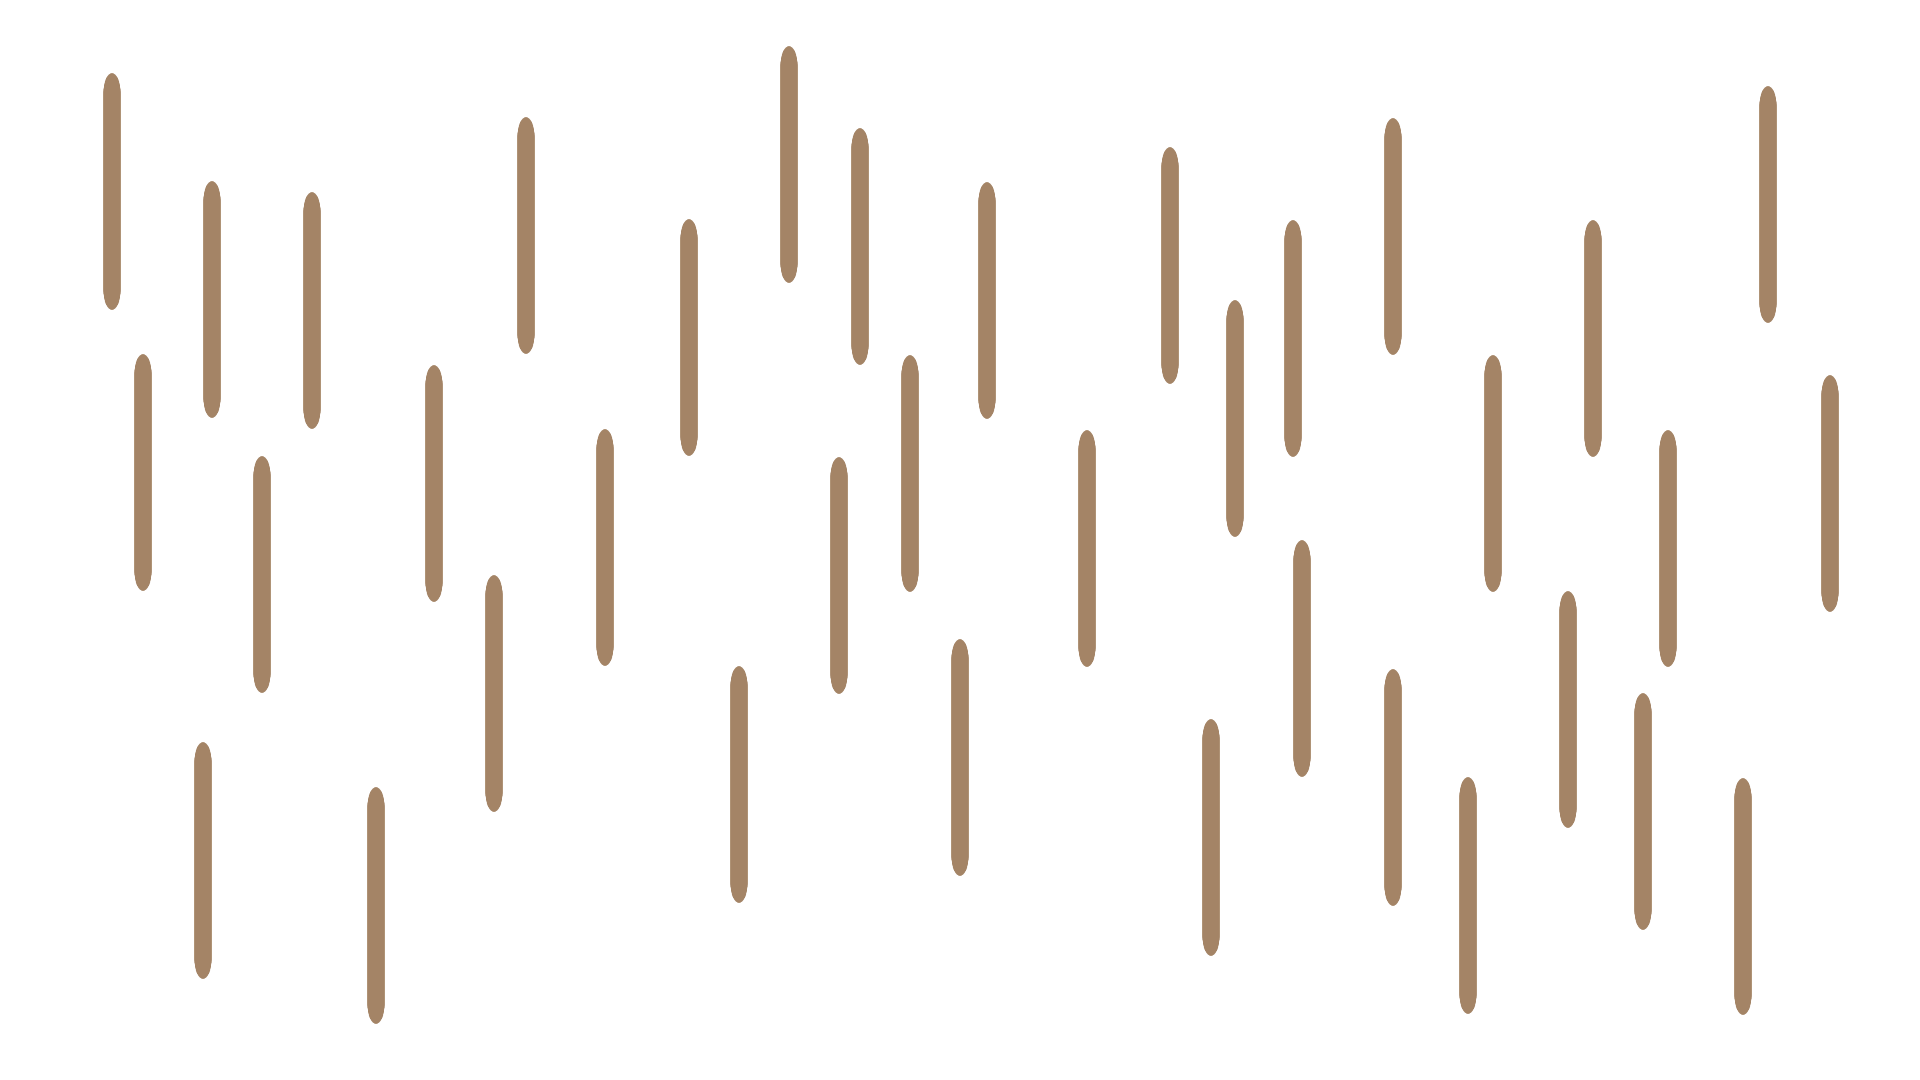
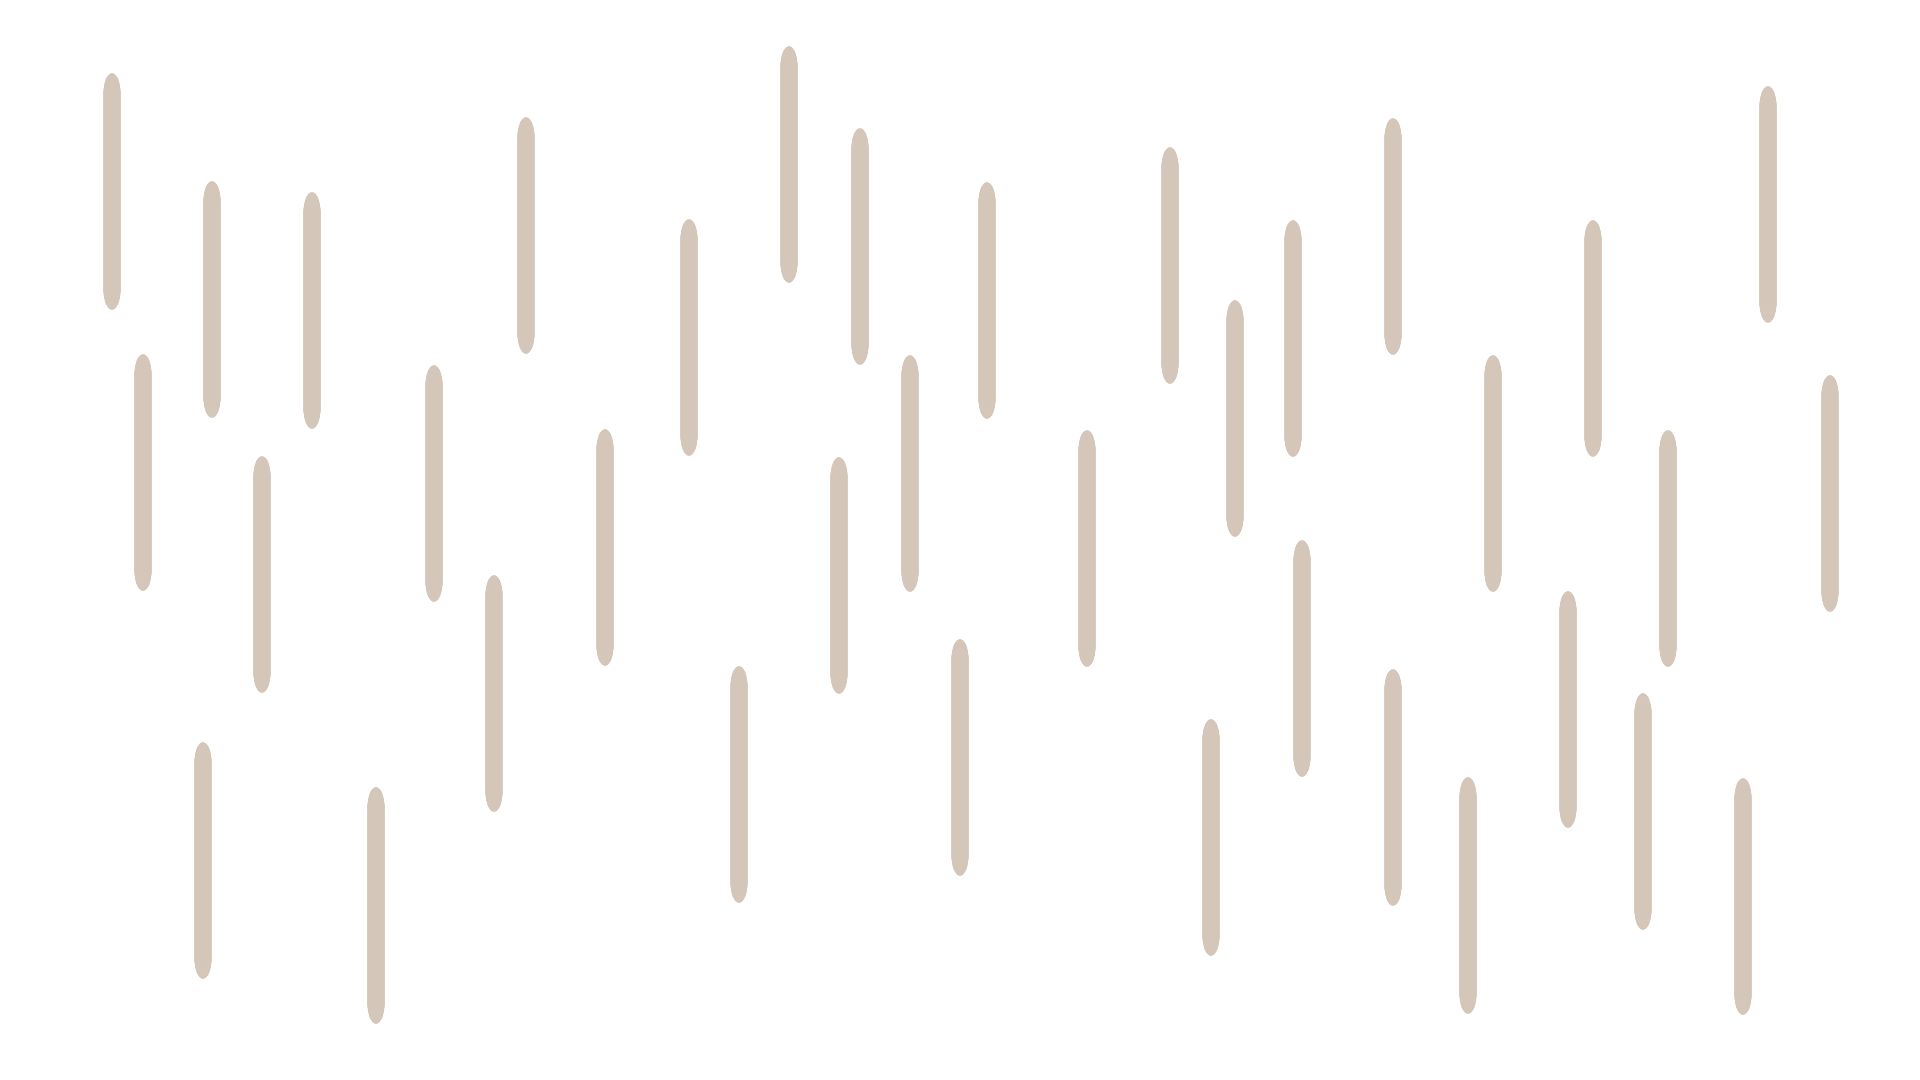
new image and added forgotten script link

diff --git a/projects.html b/projects.html
@@ -10,6 +10,7 @@
         <script src="https://code.jquery.com/jquery-3.5.1.slim.min.js" integrity="sha384-DfXdz2htPH0lsSSs5nCTpuj/zy4C+OGpamoFVy38MVBnE+IbbVYUew+OrCXaRkfj" crossorigin="anonymous"></script>
         <script src="https://cdn.jsdelivr.net/npm/popper.js@1.16.0/dist/umd/popper.min.js" integrity="sha384-Q6E9RHvbIyZFJoft+2mJbHaEWldlvI9IOYy5n3zV9zzTtmI3UksdQRVvoxMfooAo" crossorigin="anonymous"></script>
         <script src="https://stackpath.bootstrapcdn.com/bootstrap/4.5.0/js/bootstrap.min.js" integrity="sha384-OgVRvuATP1z7JjHLkuOU7Xw704+h835Lr+6QL9UvYjZE3Ipu6Tp75j7Bh/kR0JKI" crossorigin="anonymous"></script>
+        <script src="things.js"></script>
         <link rel="icon" type="image/png" href="images/possiblelogo.png">
     </head>
 
@@ -22,7 +23,7 @@
             <a href="index.html#contactid">Contact</a>
         </nav>
 
-        <div class="project_container" style="background-image: url('images/Projectwall-PixTeller.png');">
+        <div class="project_container" style="background-image: url('images/Projectwall-PixTeller.png')">
 
         <div class="container-fluid">
             <div class="row justify-content-center" style="padding: 7%">

diff --git a/articles.html b/articles.html
@@ -10,6 +10,7 @@
         <script src="https://code.jquery.com/jquery-3.5.1.slim.min.js" integrity="sha384-DfXdz2htPH0lsSSs5nCTpuj/zy4C+OGpamoFVy38MVBnE+IbbVYUew+OrCXaRkfj" crossorigin="anonymous"></script>
         <script src="https://cdn.jsdelivr.net/npm/popper.js@1.16.0/dist/umd/popper.min.js" integrity="sha384-Q6E9RHvbIyZFJoft+2mJbHaEWldlvI9IOYy5n3zV9zzTtmI3UksdQRVvoxMfooAo" crossorigin="anonymous"></script>
         <script src="https://stackpath.bootstrapcdn.com/bootstrap/4.5.0/js/bootstrap.min.js" integrity="sha384-OgVRvuATP1z7JjHLkuOU7Xw704+h835Lr+6QL9UvYjZE3Ipu6Tp75j7Bh/kR0JKI" crossorigin="anonymous"></script>
+        <script src="things.js"></script>
         <link rel="icon" type="image/png" href="images/possiblelogo.png">
     </head>
 

diff --git a/index.html b/index.html
@@ -10,6 +10,7 @@
         <script src="https://code.jquery.com/jquery-3.5.1.slim.min.js" integrity="sha384-DfXdz2htPH0lsSSs5nCTpuj/zy4C+OGpamoFVy38MVBnE+IbbVYUew+OrCXaRkfj" crossorigin="anonymous"></script>
         <script src="https://cdn.jsdelivr.net/npm/popper.js@1.16.0/dist/umd/popper.min.js" integrity="sha384-Q6E9RHvbIyZFJoft+2mJbHaEWldlvI9IOYy5n3zV9zzTtmI3UksdQRVvoxMfooAo" crossorigin="anonymous"></script>
         <script src="https://stackpath.bootstrapcdn.com/bootstrap/4.5.0/js/bootstrap.min.js" integrity="sha384-OgVRvuATP1z7JjHLkuOU7Xw704+h835Lr+6QL9UvYjZE3Ipu6Tp75j7Bh/kR0JKI" crossorigin="anonymous"></script>
+        <script src="things.js"></script>
         <link rel="icon" type="image/png" href="images/possiblelogo.png">
     </head>
 

diff --git a/things.js b/things.js
@@ -1,5 +1,9 @@
 
-$(document).ready(function() {
+
+
+$(document).ready(function () {
+
+
     $("#anchor").on('click', function (event) {
         event.preventDefault();
         var element = document.getElementById("indexid");
